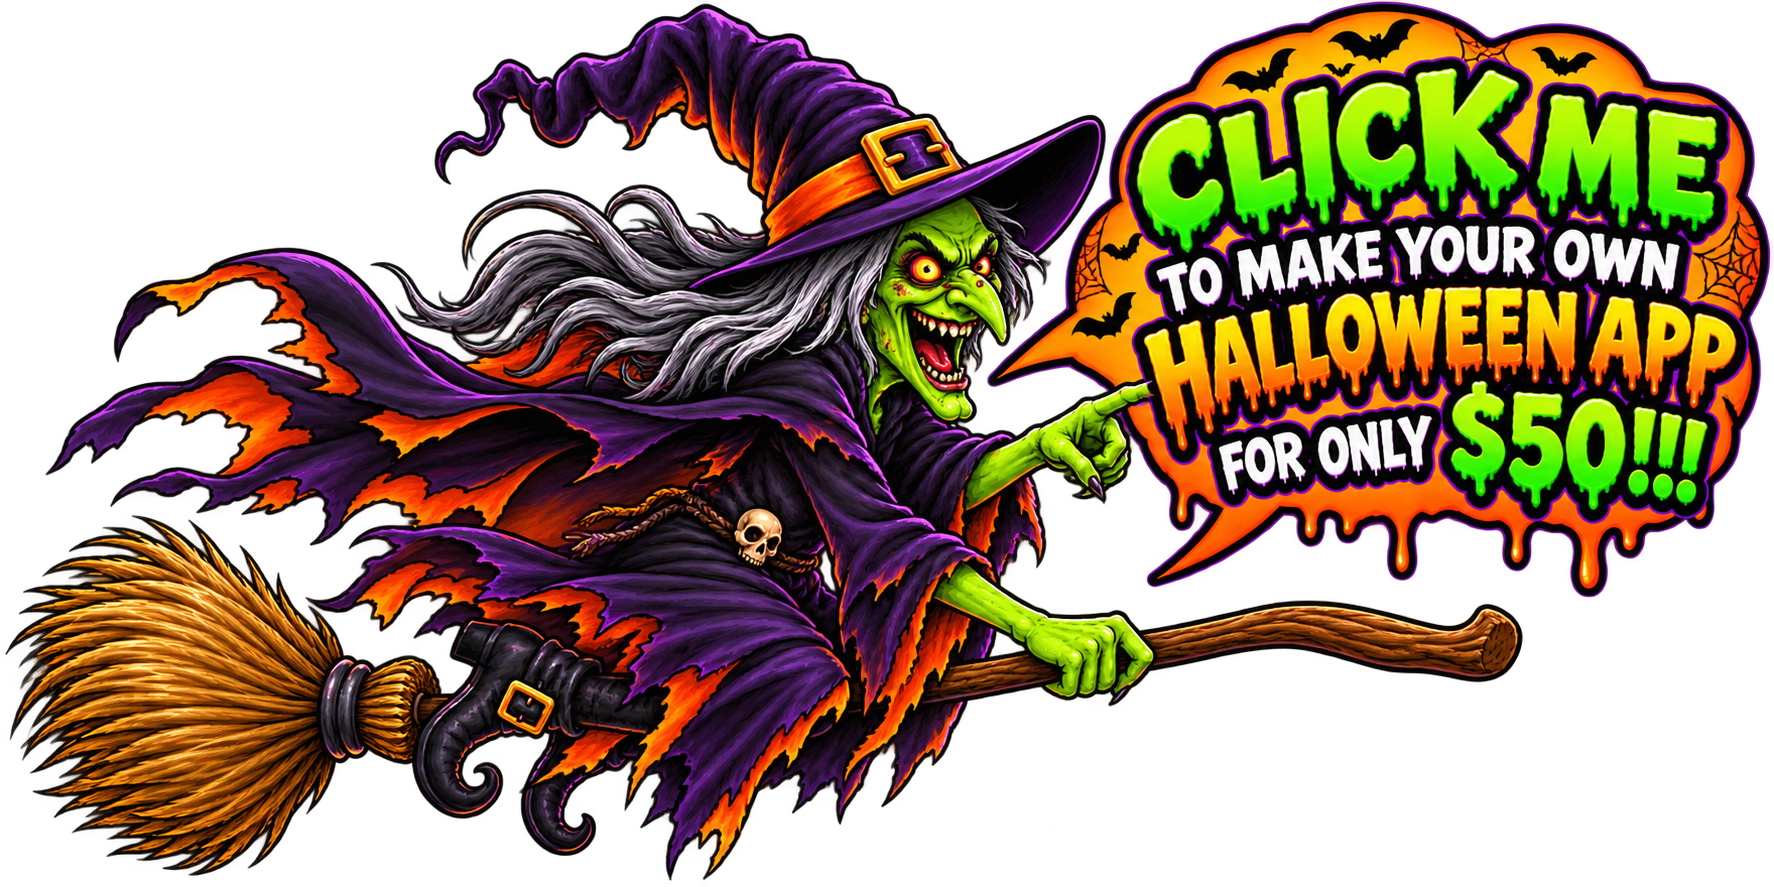
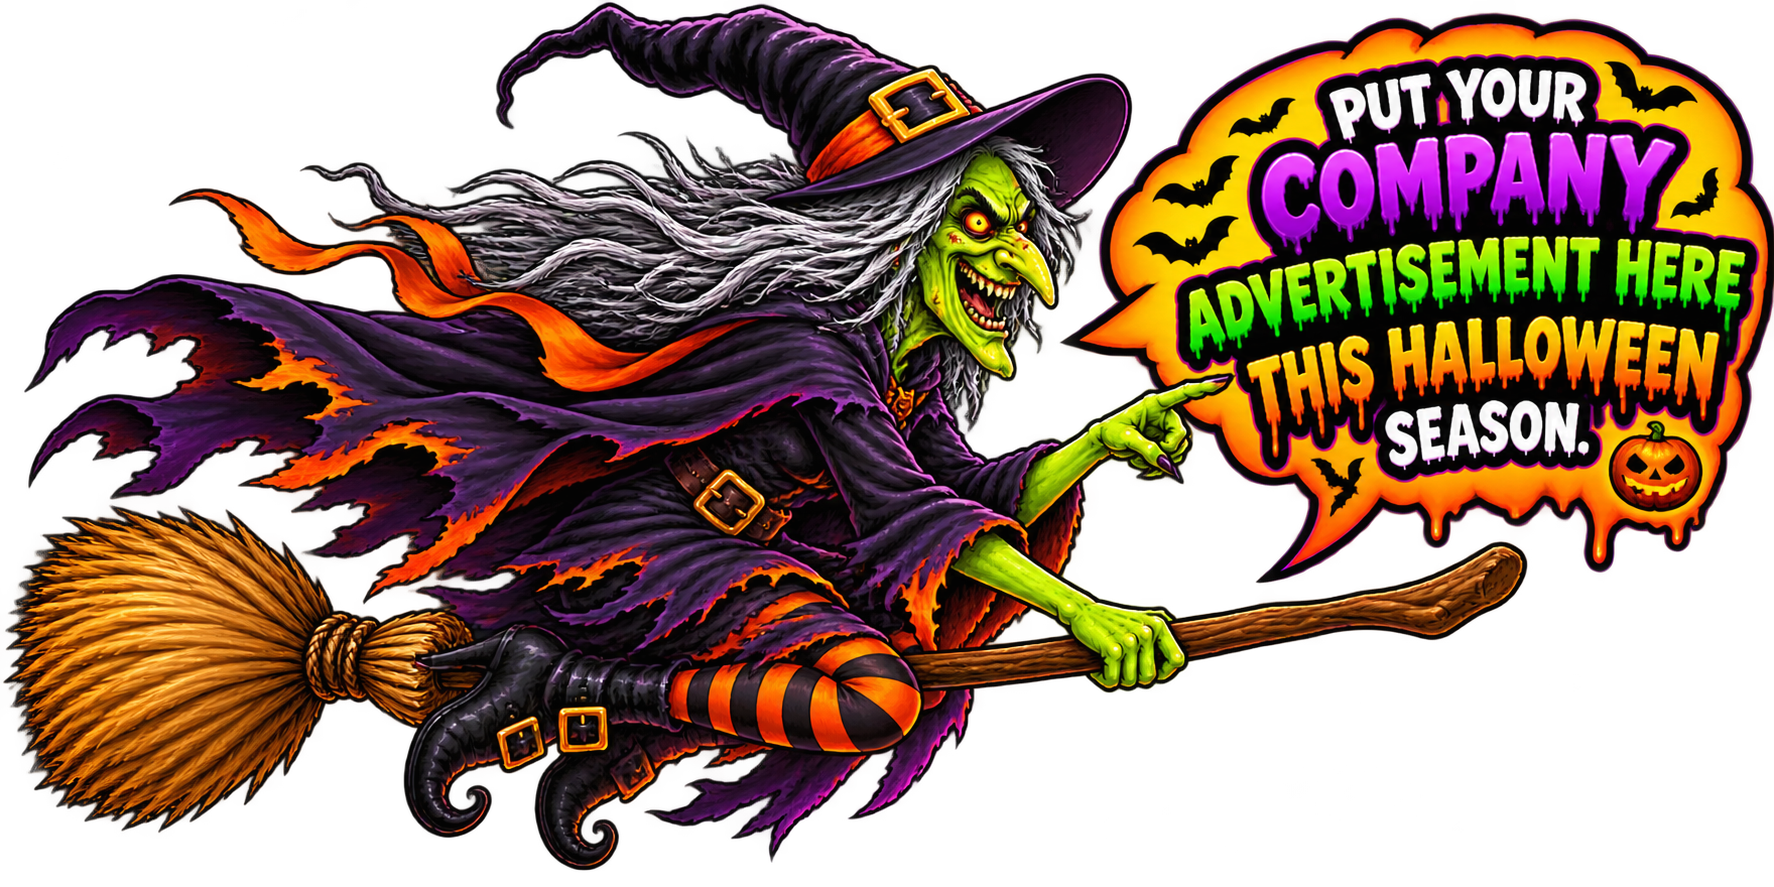
Update duplicate site witch image and footer copy

diff --git a/index.html b/index.html
@@ -121,10 +121,7 @@
     </section>
   </main>
   <footer>
-    <p class="company">Created by Titan Business Pros LLC</p>
-    <p>405-998-7979&nbsp; <a href="https://www.oklahoma.marketing">www.oklahoma.marketing</a>&nbsp; <a href="mailto:titanbusinesspros@gmail.com">Email us</a></p>
-    <p>Oklahoma City, OK</p>
-    <p>2026 Titan Business Pros LLC. All rights reserved.</p>
+    <p>Put your company name, phone, address, website, and more in the footer.</p>
   </footer>
   <script>
     let installPromptEvent = null;

diff --git a/service-worker.js b/service-worker.js
@@ -1,4 +1,4 @@
-const CACHE_NAME = 'titan-halloween-tools-v8';
+const CACHE_NAME = 'titan-halloween-tools-v9';
 const APP_SHELL = [
   './',
   './index.html',
